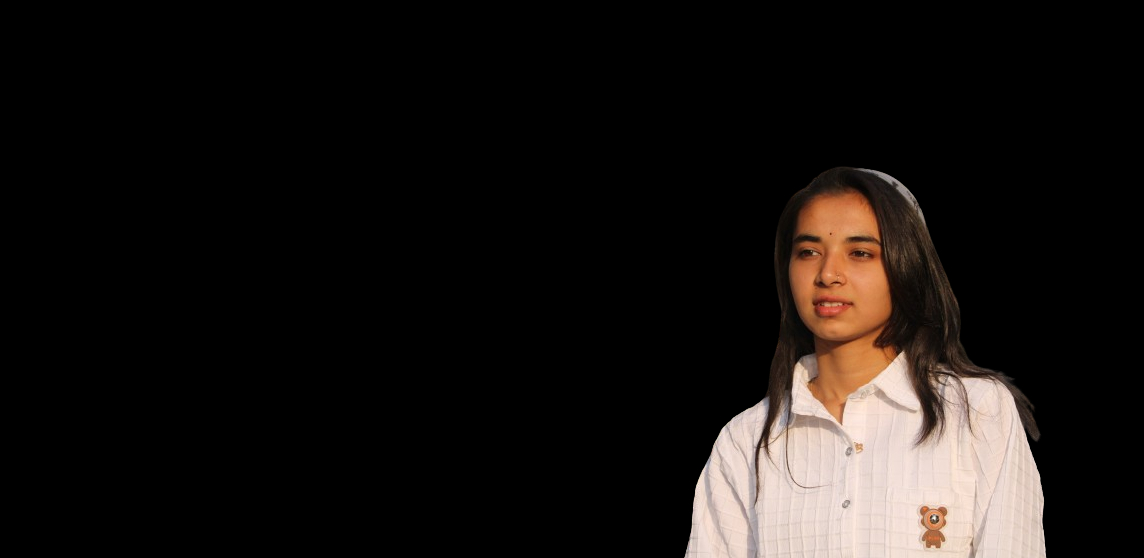
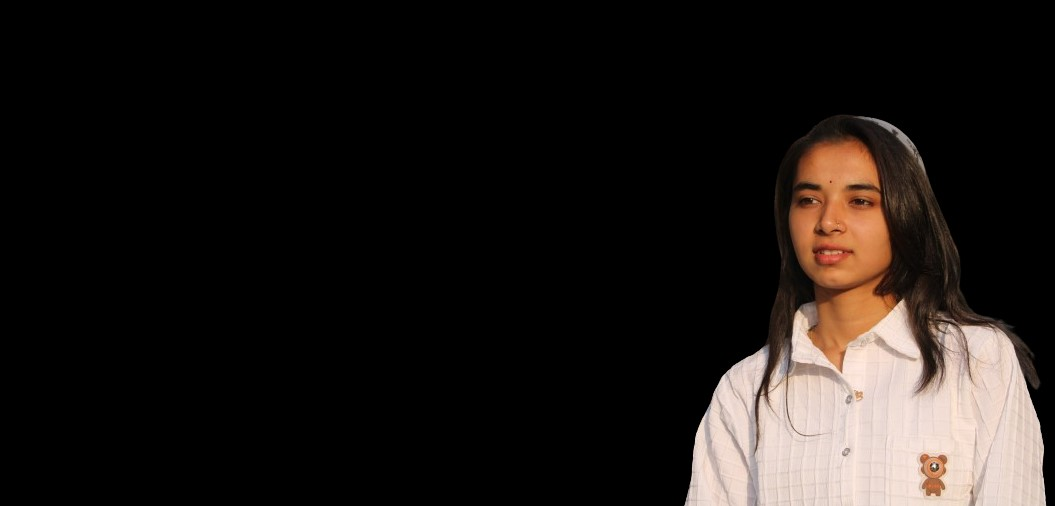
update

Changed region(s): [[0.5763, 0.2075, 1.0, 1.0]]

diff --git a/index.html b/index.html
@@ -4,7 +4,7 @@
 <head>
     <meta charset="UTF-8">
     <meta name="viewport" content="width=device-width, initial-scale=1.0">
-    <title>Ajay Odedara - Personal Portfolio Website</title>
+    <title>Neha Mer - Personal Portfolio Website</title>
     <link rel="stylesheet" href="style.css">
     <link href="https://cdn.jsdelivr.net/npm/remixicon@3.5.0/fonts/remixicon.css" rel="stylesheet">
 </head>
@@ -26,7 +26,7 @@
             </nav>
             <div class="header-text">
                 <p>Ui/Ux Designer</p>
-                <h1>Hi I'm <span>Neha</span> <br>Mer From India</h1>
+                <h1>Hi I'm <span>Neha Mer</span> <br>From India</h1>
             </div>
         </div>
     </div>
@@ -159,12 +159,12 @@
                 class="ri-linkedin-box-fill"></i></a>
                         <a href="https://www.instagram.com/.itzz..nehaaa._?igsh=eGlwbXo0cWplMG4y" target="_blank"><i
                 class="ri-instagram-line"></i></a>
-                        <a href="https://https://www.facebook.com/ajay.odedarakuber?mibextid=ZbWKwL" target="_blank"><i
-                class="ri-facebook-circle-fill"></i></a>
+                        <!-- <a href="https://https://www.facebook.com/ajay.odedarakuber?mibextid=ZbWKwL" target="_blank"><i
+                class="ri-facebook-circle-fill"></i></a> -->
                         <a href="https://x.com/nehamer142?t=BVJ6ujbTXBufczHVt2rCjw&s=09" target="_blank"><i
                 class="ri-twitter-x-fill"></i></a>
                     </div>
-                    <a href="images/NEHA_MER-PROFILE.pdf" download class="btn btn2">Download Cv</a>
+                    <a href="images/NEHA_MER-PROFILE.pdf" download class="btn btn2">Download CV</a>
                 </div>
                 <div class="Contact-Right">
                     <form action="" name="submit-to-google-sheet">

diff --git a/style.css b/style.css
@@ -297,7 +297,7 @@ nav ul li a:hover::after {
 }
 
 .btn:hover {
-    background: #ff004f;
+    background: #ff296d;
 }
 
 /* ----------------------- Contact  -------------------- */
@@ -395,9 +395,9 @@ form .btn2 {
     display: none;
 }
 
-@media only screen and (max-width: 733px) {
+@media only screen and (max-width: 900px) {
     #header {
-        background-image: url(images/Ajay\ small\ screen.jpg);
+        background-image: url(images/NEHA\ PH.jpg);
         background-size: cover;
         background-position: center;
     }
@@ -406,7 +406,7 @@ form .btn2 {
         font-size: 16px;
     }
     .header-text h1 {
-        font-size: 30px;
+        font-size: 25px;
     }
     #close {
         display: block;
@@ -478,5 +478,5 @@ form .btn2 {
 }
 
 #msg {
-    color: #61b752;
+    color: #0022ff;
 }
